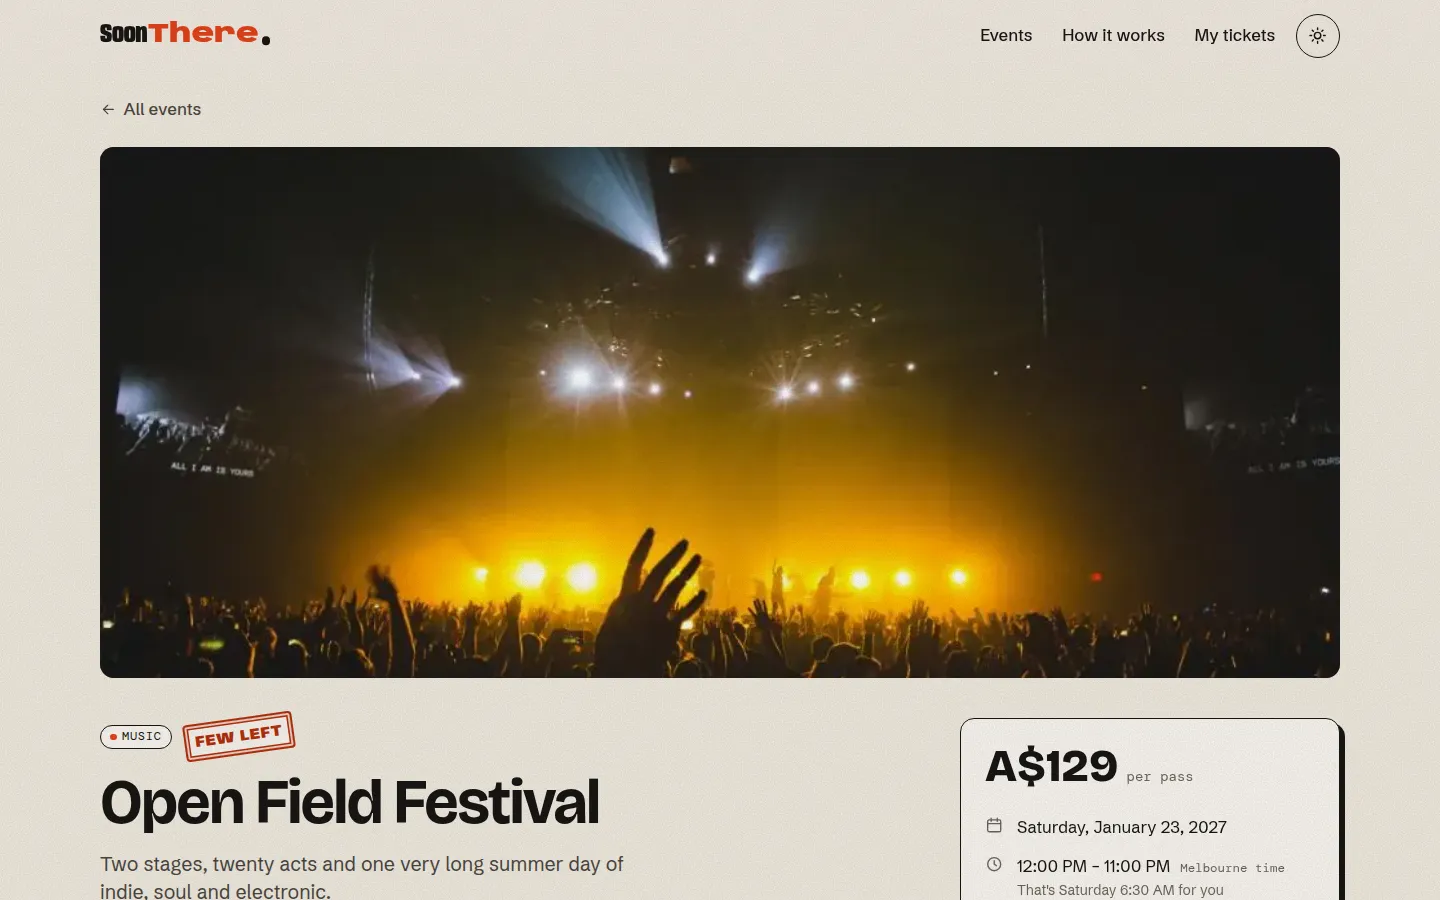
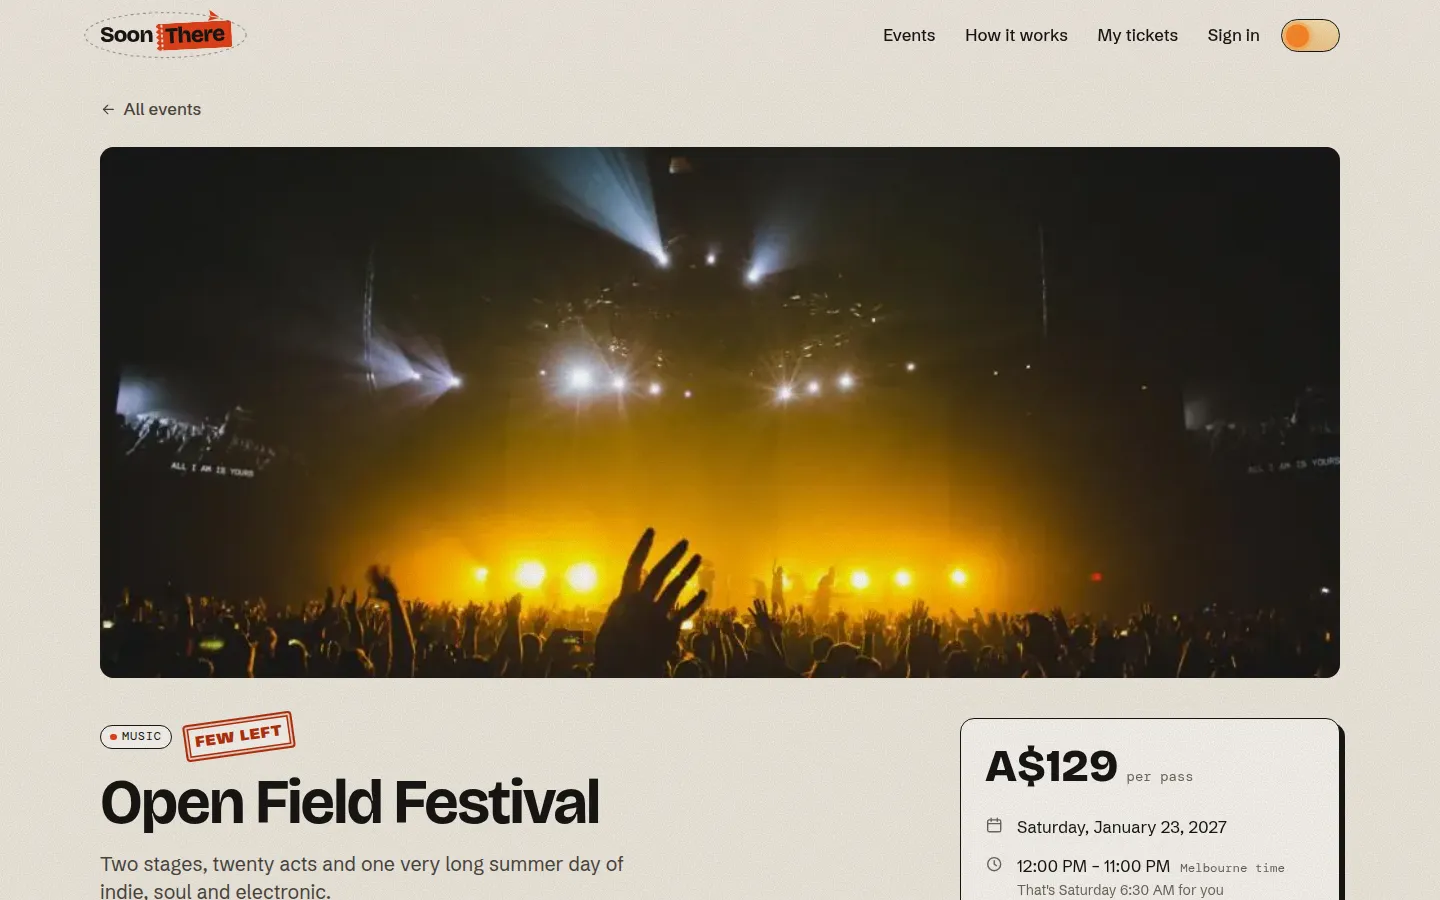
document accounts, admin and the new animations in the readme

Changed region(s): [[0.625, 0.0, 0.9375, 0.0622], [0.0625, 0.0, 0.1875, 0.0622]]

diff --git a/README.md b/README.md
@@ -13,7 +13,7 @@ SoonThere is an event discovery and booking site. You can browse gigs, talks, ta
 ## What it does
 
 ### Home
-- **Hero dial.** Upcoming events sit on the rim of a large wheel, like the face of a clock. The event under the pointer is shown in full (title, date, venue, price, a live countdown) and its photo fills the background. The dial turns on its own every few seconds, and you can also drag it, swipe it on a trackpad, use the arrow buttons or the arrow keys. It pauses while you're hovering or using the keyboard.
+- **Hero dial.** Upcoming events sit on the rim of a large wheel. On wide screens its hub sits in the hero's bottom-right corner and the cards sweep round it; on phones and tablets it runs along the bottom. The event under the pointer is shown in full (title, date, venue, price, a live countdown) and its photo fills the background. The dial turns on its own every few seconds, and you can also drag it, swipe it on a trackpad, use the arrow buttons or the arrow keys. It pauses while you're hovering or using the keyboard.
 - **Headliners.** Three featured events as large poster cards with live countdowns.
 - **The lineup.** Every upcoming event as a ticket-style card with its name, date, venue, image and a short description.
   - **Search.** Matches names, venues, cities, organisers and tags, and ignores accents, so "alcantara" finds "Alcântara".
@@ -47,20 +47,37 @@ SoonThere is an event discovery and booking site. You can browse gigs, talks, ta
   - **Errors:** each one appears next to its field and is linked to it for screen readers with `aria-describedby` and `aria-invalid`.
 - **Clash warning.** If the new booking overlaps one you already have, or is in another city only a few hours away, the form warns you but still lets you book.
 - **Live pass preview.** A ticket next to the form fills in as you type.
-- **Confirmation.** On success the pass is saved and the form is replaced by a confirmation: **"You're in! See you SoonThere."** It shows a stamped pass with a booking number such as `ST-K7M2QX` and offers an "Add to calendar" button.
+- **Confirmation.** On success the pass is saved and the form is replaced by a confirmation: **"You're in! See you SoonThere."** The pass is delivered by paper plane: it flies in along a dashed path, unfolds into the ticket, and a "You're in" stamp lands on it. It shows a booking number such as `ST-K7M2QX` and offers an "Add to calendar" button.
+- **Accounts are optional.** Guests can book straight away. Signed-in visitors get their name and email filled in, and the pass is saved to their account.
 
 ![Registration confirmation](docs/screenshots/register.webp)
 
 ### My tickets
-- **Coming up.** A sideways timeline of your bookings, with a date rail above the passes and a time rail below. A clock at one end shows the local start time of the pass in focus. A tear-off calendar at the other end tears a page away as you move forward and sticks it back as you go back.
+- **Coming up.** A sideways timeline of your bookings, with a date rail above the passes and a time rail below. Two half-wheels peek out at either end. The left one is a 24-hour bezel shaded from night to day that turns to the focused pass's start time. The right one carries the days of that month, with a dot on every day you're booked, and turns to its date.
 - **Season at a glance.** A heatmap of the whole season. Days you're going are highlighted, other days with events are shaded, and clicking a highlighted day jumps to that booking.
-- **Been there.** Past bookings on a strip of film.
+- **Been there.** Past bookings on a strip of film. When there aren't any yet, it says so.
 - **Pass details.** Open any pass to see it in full, add it to your calendar or cancel it. Cancelling asks for confirmation, and the spots go back on sale straight away. A "clear everything" option is there too.
 
 ![My tickets](docs/screenshots/tickets.webp)
 
+### Accounts and admin
+- **Sign in or create an account** on `account.html`. Passwords need at least 8 characters with a letter and a number.
+- **Members** see the bookings made on their account, or with their email, under My tickets. Signed out, My tickets shows guest bookings made on this device.
+- **Admins** get an Admin link in the header, which opens `admin.html`:
+  - **Overview:** events coming up, passes booked, passes checked in and accounts.
+  - **Events:** add, edit and remove events, with every field the event page uses, including the venue's time zone and a cover photo (pick one of the site's or upload your own). Each event shows how many of its spots are taken. "Restore the original lineup" undoes every change.
+  - **Check-in:** type a booking number to admit someone. It catches unknown numbers, passes that were already used and passes for a different event. Attendee lists can be filtered by event, and check-ins can be undone.
+  - **Bookings:** every booking, searchable, with cancelling and a CSV export.
+  - **Members:** every account, with the option to make someone an admin.
+![Admin area](docs/screenshots/admin.webp)
+
+- **Demo admin account:** `admin@soonthere.app` with the password `soonthere-admin`. The sign-in page offers to fill it in.
+
+> There's no server behind the site, so accounts, bookings and lineup changes are stored in the browser (localStorage). They don't sync between devices, and this isn't real security: anyone with the browser's developer tools could change the data. Passwords are salted and hashed with SHA-256 using the Web Crypto API rather than stored as text, but a real launch would move all of this to a backend.
+
 ### Everywhere
-- **Light and dark themes.** The site follows your system setting until you pick one, then remembers your choice. The new theme spreads out in a circle from the toggle button.
+- **Light and dark themes.** The site follows your system setting until you pick one, then remembers your choice. The switch is a little sky: the sun slides across, turns into a moon and the stars come out, and the new theme spreads out in a circle from it.
+- **Logo.** The name with "There" printed on a torn ticket stub, and a paper plane flying a dashed orbit around it. Hover it and the plane loops round.
 - **Countdown timers.** Shown on the hero, the headliners and the event pages.
 - **Animation.** Scroll reveals, marquee tapes, a 3D tilt on cards, magnetic buttons and page transitions. All motion is turned off for people who set "reduce motion" in their system settings.
 - **Responsive layout.** Built mobile first and tested at 360, 390, 768, 1024, 1280 and 1440 pixels wide.
@@ -79,6 +96,8 @@ index.html        home: hero dial, headliners, lineup, how it works
 event.html        one event, picked with ?id=
 register.html     registration form and confirmation, event picked with ?event=
 tickets.html      My tickets
+account.html      sign in, create an account, profile
+admin.html        admin area: events, check-in, bookings, members
 404.html          not found
 css/
   base.css        design tokens, light and dark themes, reset, type
@@ -88,7 +107,7 @@ css/
 js/
   app.js          shared on every page: theme, header, reveals, tilt, toasts
   data/events.js  the events themselves
-  lib/            dom helpers, date and price formatting, storage, catalogue, validation, .ics export
+  lib/            dom helpers, date and price formatting, storage, catalogue, accounts, validation, .ics export
   components/     event cards, countdown, hero dial, pass
   pages/          one module per page
 assets/           favicon, share image, event photos
@@ -97,11 +116,12 @@ assets/           favicon, share image, event photos
 ### Notes on the implementation
 
 - **No build step.** Every page loads a single ES module (`js/pages/*.js`), which imports what it needs. The site is static files, so it deploys anywhere.
-- **One source of truth.** All events live in `js/data/events.js`. Cards, filters, the dial, event pages and the registration form all read from it through small helpers in `js/lib/catalog.js`, such as `upcoming()`, `getStatus()`, `seatsLeft()` and `findClashes()`.
+- **One source of truth.** The built-in lineup lives in `js/data/events.js`. When an admin changes it, the edited list is saved under `soonthere:events` and used instead, so every page sees the same events. Cards, filters, the dial, event pages and the registration form all read from it through small helpers in `js/lib/catalog.js`, such as `upcoming()`, `getStatus()`, `seatsLeft()` and `findClashes()`.
 - **Safe templating.** Markup is built with a small `html` tagged template (in `js/lib/dom.js`) that escapes every interpolated value, so nothing typed into the form can end up as HTML.
 - **Time zones.** Start and end times are stored in UTC along with the venue's IANA time zone. Every date and time on the site is formatted with `Intl.DateTimeFormat` in the venue's zone, so an 8 pm gig in Lisbon says 8 pm wherever you are. Prices use `Intl.NumberFormat` in the event's own currency, and phrases like "in 17 days" come from `Intl.RelativeTimeFormat`.
-- **localStorage.** Bookings are saved under `soonthere:registrations` as a list of `{ id, eventId, name, email, phone, passes, note, createdAt }`, and the theme is saved under `soonthere:theme`. Reads and writes are wrapped in `try`/`catch`, so private browsing modes that block storage don't break the site. A custom `registrations:change` event, plus the browser's `storage` event, keeps the ticket count and seat numbers in sync across open tabs. Seats left are worked out as capacity, minus the event's existing bookings, minus your own passes.
+- **localStorage.** Bookings are saved under `soonthere:registrations` as a list of `{ id, eventId, name, email, phone, passes, note, createdAt }`, the theme under `soonthere:theme`, accounts under `soonthere:users` and the signed-in session under `soonthere:session`. Reads and writes are wrapped in `try`/`catch`, so private browsing modes that block storage don't break the site. A custom `registrations:change` event, plus the browser's `storage` event, keeps the ticket count and seat numbers in sync across open tabs. Seats left are worked out as capacity, minus the event's existing bookings, minus your own passes.
 - **The dial.** Each card is rotated around a point far below the stage, so the cards sit on the rim of a big wheel. A `requestAnimationFrame` loop eases the dial towards its target position. The rings of tick marks are plain CSS (`repeating-conic-gradient` with a radial mask), and they fade out around the centre card so its date and time stay readable.
+- **Times entered by admins.** An event's doors time is typed in the venue's local time and converted to UTC by working out that zone's offset with `Intl.DateTimeFormat`, so daylight saving is handled.
 - **Progressive enhancement.** View transitions, the share sheet and the clipboard are used where the browser supports them, and everything still works without them.
 - **Accessibility.**
   - Semantic landmarks and a skip link.
